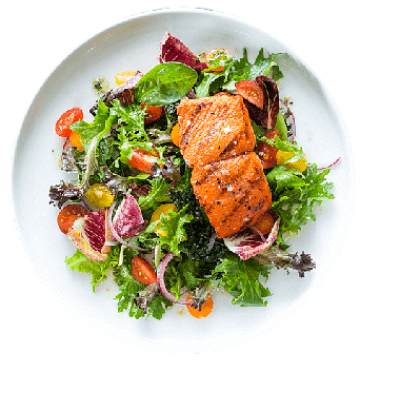
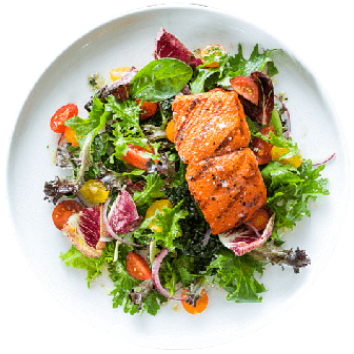
landing-page-ver-2

diff --git a/src/pages/landing/landing-page.tsx b/src/pages/landing/landing-page.tsx
@@ -1,10 +1,44 @@
 import MainLayout from "src/layout/main-layout";
 import foodBlack from "@assets/images/food-black.png";
-import foodWhite from "@assets/images/food-white2.png";
+import foodWhite from "@assets/images/food-white.png";
+import partnerImg from "@assets/images/partner.png";
+import vendorImg from "@assets/images/vendor.png";
+import { Button } from "@components/ui/button";
 
 export default function LandingPage() {
   return (
     <MainLayout className={"bg-white pt-14"}>
+      <div className="w-full md:h-[80vh] flex flex-col gap-5 justify-center items-center font-nunito">
+        <div className="font-extrabold text-4xl p-10 pb-16 text-center">
+          Thrive with {""}
+          <span className="text-[#E68D3B]">You</span>
+          <span className="text-[#E81A1B]">Pi</span>: Unleash Your Potential.
+        </div>
+        <div className="mb-12 pb-10 px-10 sm:px-16 gap-20 md:gap-12 lg:px-24 lg:gap-20 w-full flex flex-col md:flex-row md:h-1/2 justify-center items-center">
+          <div className="gap-4 md:gap-0 relative sm:w-2/3 lg:w-1/3 h-full bg-white shadow-md rounded-lg p-12 pb-8 flex flex-col items-start justify-around hover:cursor-pointer hover:-translate-y-1 hover:shadow-lg transition-all ease-in-out duration-500">
+            <img src={partnerImg} className="absolute -top-7 w-16" />
+            <p className="font-bold text-2xl text-left w-full">
+              Join as a Delivery Partner
+            </p>
+            <p>
+              We are home to over 2 thounsand partner drivers in Southeast Asia,
+              who receive financial security and healthcare facilities.
+            </p>
+            <Button className="font-bold">Learn More</Button>
+          </div>
+          <div className="gap-4 md:gap-0 relative sm:w-2/3 lg:w-1/3 h-full bg-white shadow-md rounded-lg p-12 pb-8 flex flex-col items-start justify-around hover:cursor-pointer hover:-translate-y-1 hover:shadow-lg transition-all ease-in-out duration-500">
+            <img src={vendorImg} className="absolute -top-7 w-16" />
+            <p className="font-bold text-2xl text-left w-full">
+              Join as a Vendor Partner
+            </p>
+            <p>
+              We assist 500,000+ Business Partners in multiplying sales,
+              expanding reach, and growing with new technologies.
+            </p>
+            <Button className="font-bold text">Learn More</Button>
+          </div>
+        </div>
+      </div>
       <div className="w-full">
         <div className="h-screen md:h-[83vh] w-full flex flex-col md:flex-row">
           <div className="relative w-full md:w-1/2 h-full bg-[#2B2929] p-4 xl:p-16 text-[#F1EFEF] font-nunito">

diff --git a/src/lib/routes/routes.tsx b/src/lib/routes/routes.tsx
@@ -1,7 +1,7 @@
 import About from '@pages/about/about';
 import AuthPage from '@pages/auth/auth-page';
 import LandingPage from '@pages/landing/landing-page';
-import Order from '@pages/order/order';
+import Order from '@pages/order/order-page';
 import { createBrowserRouter } from 'react-router-dom';
 
 export const router = createBrowserRouter([

diff --git a/tailwind.config.js b/tailwind.config.js
@@ -17,7 +17,6 @@ module.exports = {
     },
     extend: {
       colors: {
-        
         border: "hsl(var(--border))",
         input: "hsl(var(--input))",
         ring: "hsl(var(--ring))",
